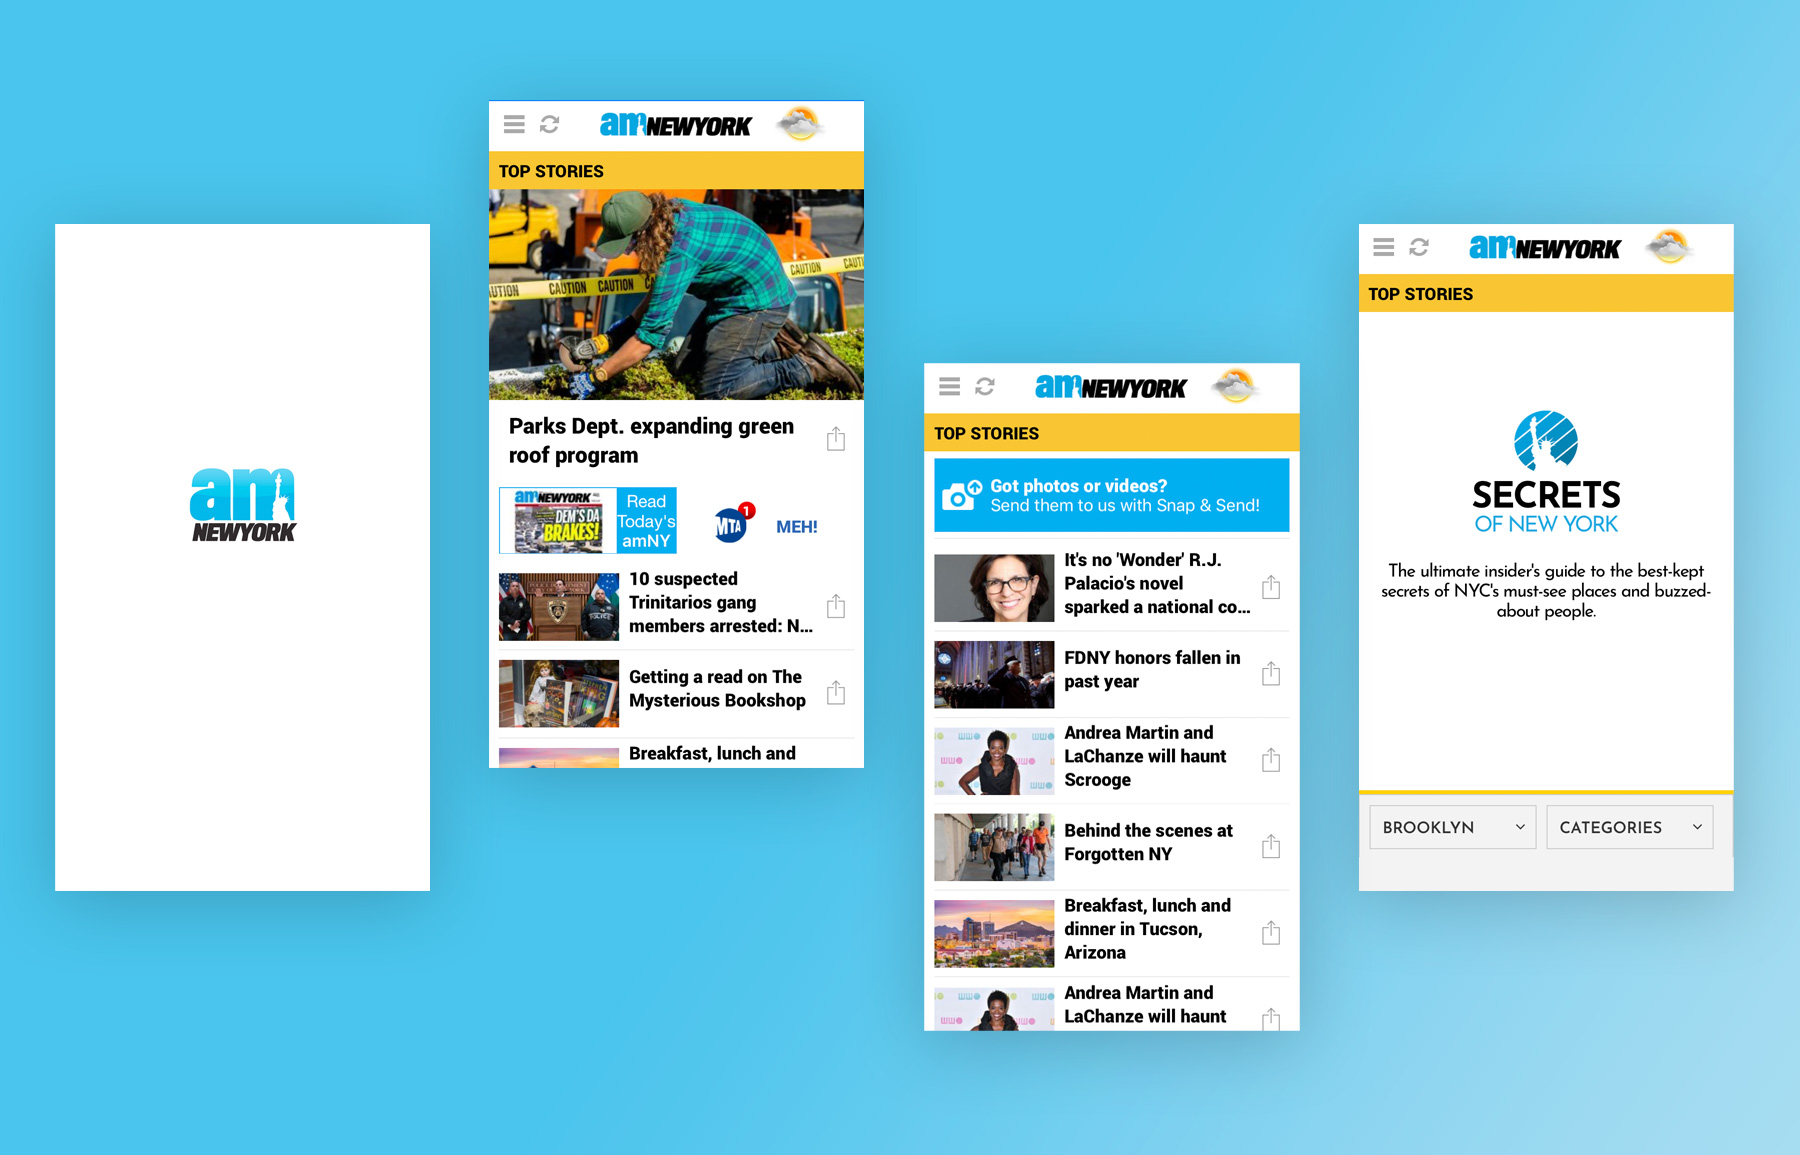
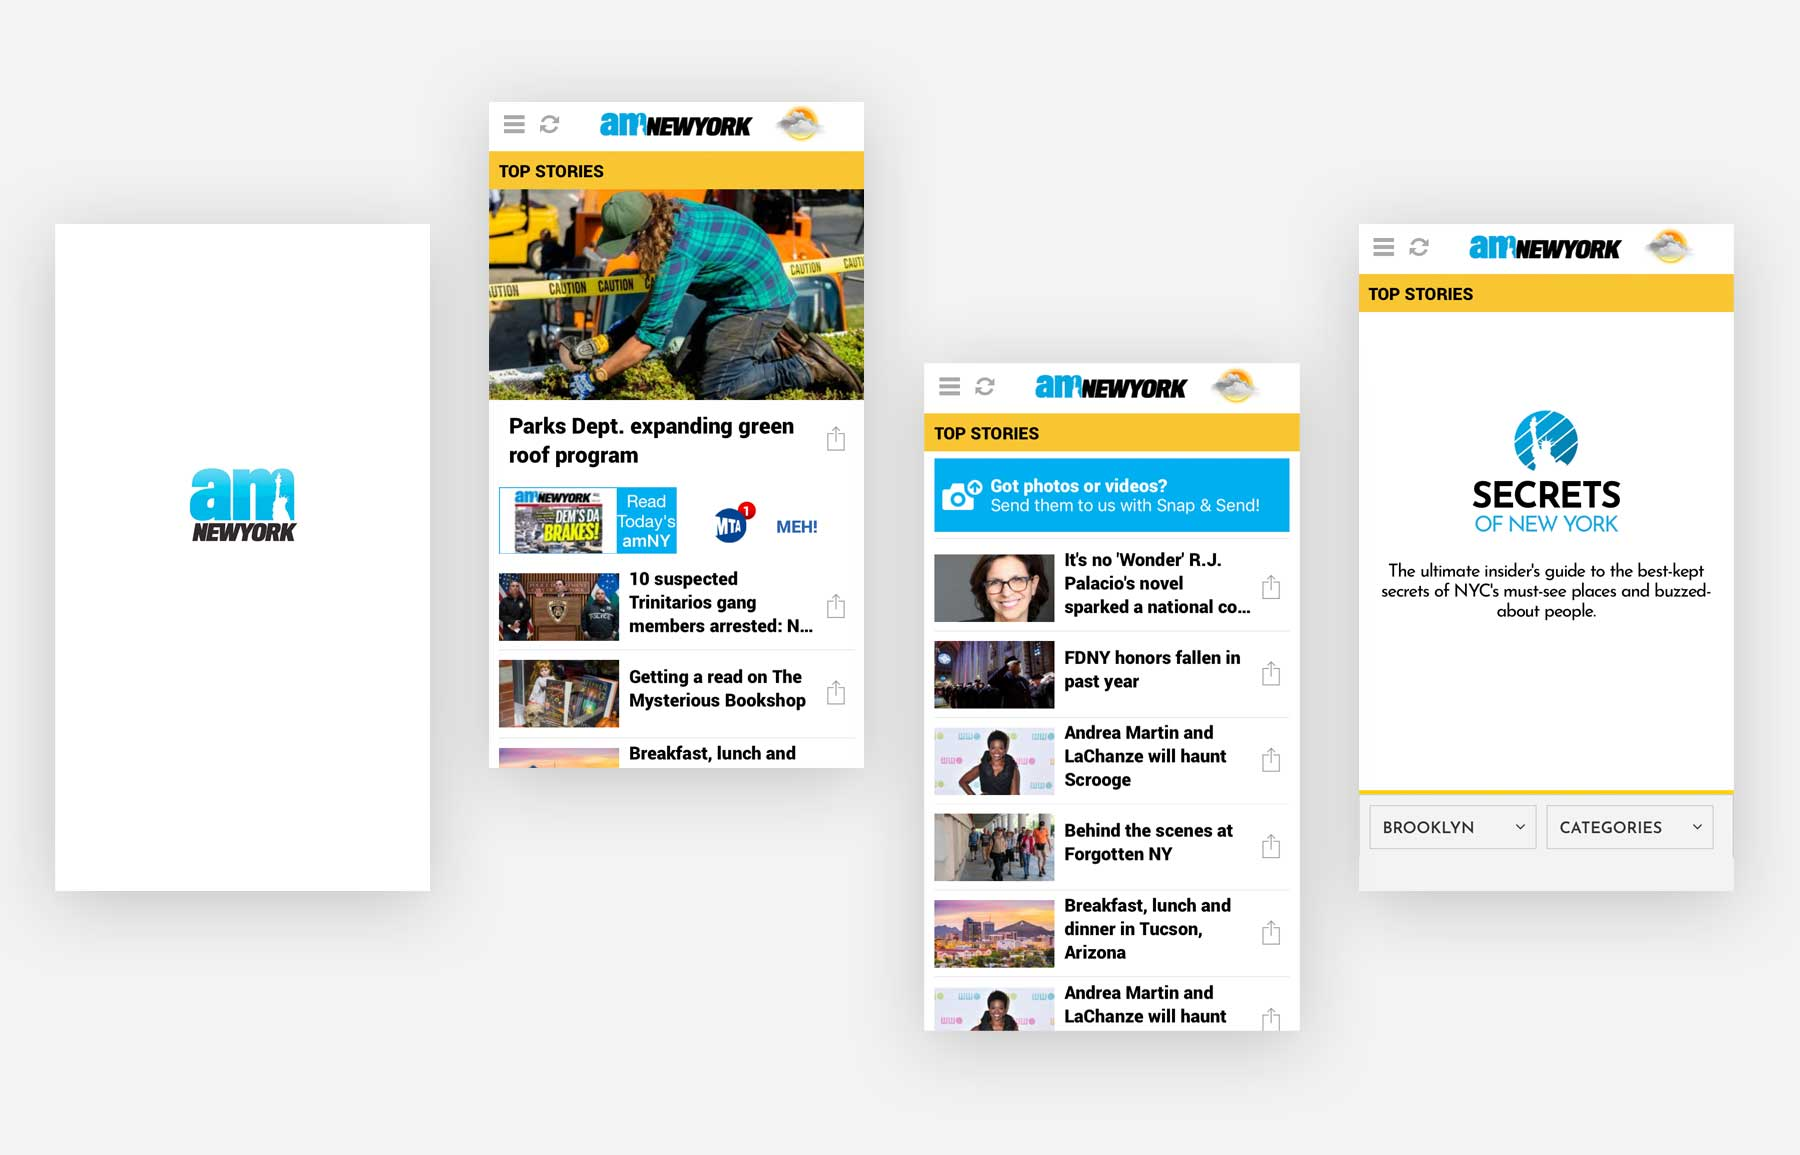
splash page dispay fixes

diff --git a/index.html b/index.html
@@ -9,7 +9,7 @@
     <meta name="robots" content="noindex,nofollow" />
     <link href="https://fonts.googleapis.com/css?family=Nunito:400,600&display=swap" rel="stylesheet">
     <link href="https://fonts.googleapis.com/css?family=Open+Sans:300,400,600,700&display=swap" rel="stylesheet">
-    <link href="css/global.min.css" rel="stylesheet" type="text/css" />
+    <link href="css/global.css" rel="stylesheet" type="text/css" />
 </head>
 <body>
     <div id="wrapper" class="home">
@@ -25,7 +25,6 @@
                 <div class="inner">
                     <a href="/" class="logo">
                         <span class="brand"><em>M</em> <em>H</em></span>
-
                         <span class="name">
                             <strong>MATT<em>/</em>HOGEBOOM</strong>
                             <p>UI Designer / Website Developer</p>

diff --git a/css/global.css b/css/global.css
@@ -578,7 +578,7 @@ section .title h3 {
 }
 
 #amny {
-  background: #4bc4ee;
+  background: #f4f4f4;
 }
 
 #n12 {
@@ -599,8 +599,7 @@ section .title h3 {
 }
 
 footer {
-  background: url(img/bg-footer.jpg) #1675c6 no-repeat center bottom;
-  background-attachment: fixed;
+  background: #1675c6;
   width: 100%;
   padding: 1em 0 4em;
 }

diff --git a/css/_sections.scss b/css/_sections.scss
@@ -185,7 +185,7 @@ section {
 	background:#e3e4e6;
 }
 #amny {
-	background:#4bc4ee;
+	background:#f4f4f4;
 }
 #n12 {
 	background:#aacae7;
